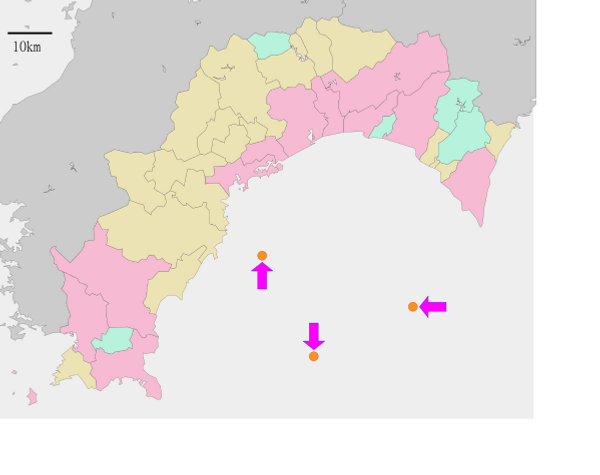
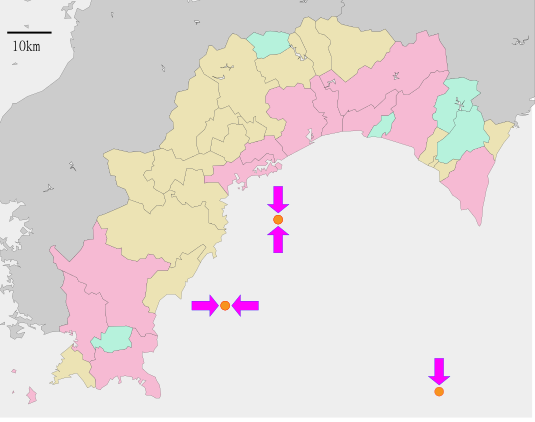
better SVG, coordinates in CSV are relative [0-1]

diff --git a/graph_wind_create/wind.py b/graph_wind_create/wind.py
@@ -28,27 +28,29 @@ import pandas as pd
 from svgmanip import Element 
 
 def make_graph_wind():
+    map_width = 535 #open the map SVG file to see it's width and height!
+    map_height = 431
     sea = pd.read_csv('input/raw_data.csv')
-    marker_x=sea['x']
-    marker_y=sea['y']
+    marker_x=map_width*sea['x']
+    marker_y=map_height*sea['y']
     direction=-sea['deg'] #the app rotates clockwise, but we want counterclockwise rotation counting from the South (if the South in the coming data = 0)
 
     #output file and graphics' placement
-    output = Element(960, 700)  # size of the output file.
+    output = Element(map_width, map_height)  # size of the output file.
 
     base = Element('img/map.svg') #increase the map size directly inside the SVG file to Your liking!
     output.placeat(base, 0, 0) #place the map at the top left corner of the output SVG composed image
 
     wind_array=[]
     for i in range(len(sea.index)):
-        wind = Element('img/wind.svg').scale(0.25).rotate(direction[i], 48, 20) #these numbers are marker's rotation points relative to the marker figure!!!
+        wind = Element('img/wind.svg').scale(0.25).rotate(direction[i], 44.715225, 18.5) #these numbers are marker's rotation points relative to the marker figure, open SVG to see its size, multiply width by 0.5, height by 0.12 to get these relative rotation coordinates!!!
         wind_array.append(wind)
         output.placeat(wind_array[i], int(marker_x[i]), int(marker_y[i]))
 
     output.dump('output/output.svg')
 
     #comment the following section out when moving the code for production, it's here only to create PNG images for easier preview in our team chat:
-    image = pyvips.Image.thumbnail("output/output.svg", 600)
+    image = pyvips.Image.thumbnail("output/output.svg", 535)
     image.write_to_file("output/output.png")
    
 make_graph_wind()
